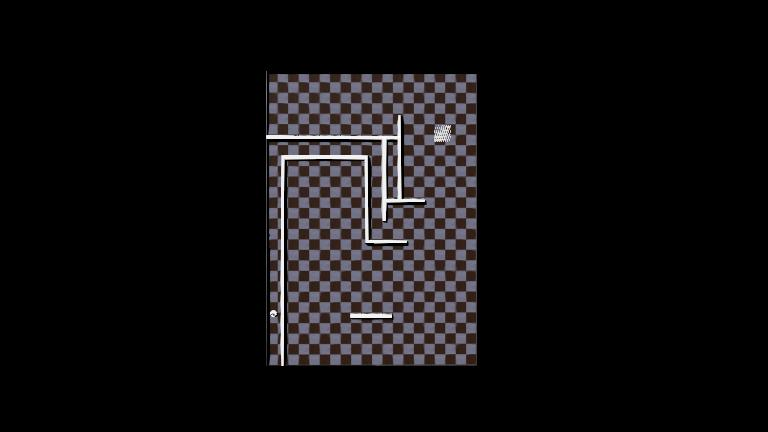
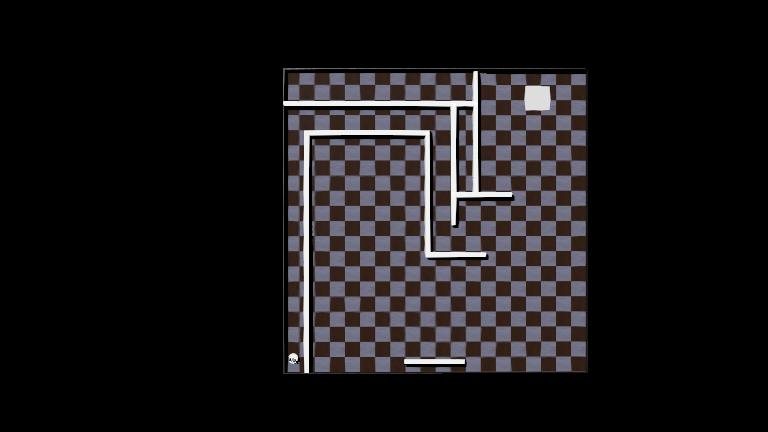
avances hasta presentacion 2 ante terna

Changed region(s): [[0.3438, 0.1505, 0.7812, 0.8727]]

diff --git a/Webots/controllers/my_controller_Pololu3pi/my_controller_Pololu3pi.py b/Webots/controllers/my_controller_Pololu3pi/my_controller_Pololu3pi.py
@@ -9,11 +9,11 @@ import Gen_Trayectoria
 
 class Slave(Robot):
     # get the time step of the current world.
-    timestep = 5
+    timestep = 2
 
     # Especificaciones del mundo
     size_x = 5 #mt
-    size_y = 7 #mt
+    size_y = 5 #mt
 
     # Caracteristicas del robot
     maxSpeed = 0.035 #mt/s
